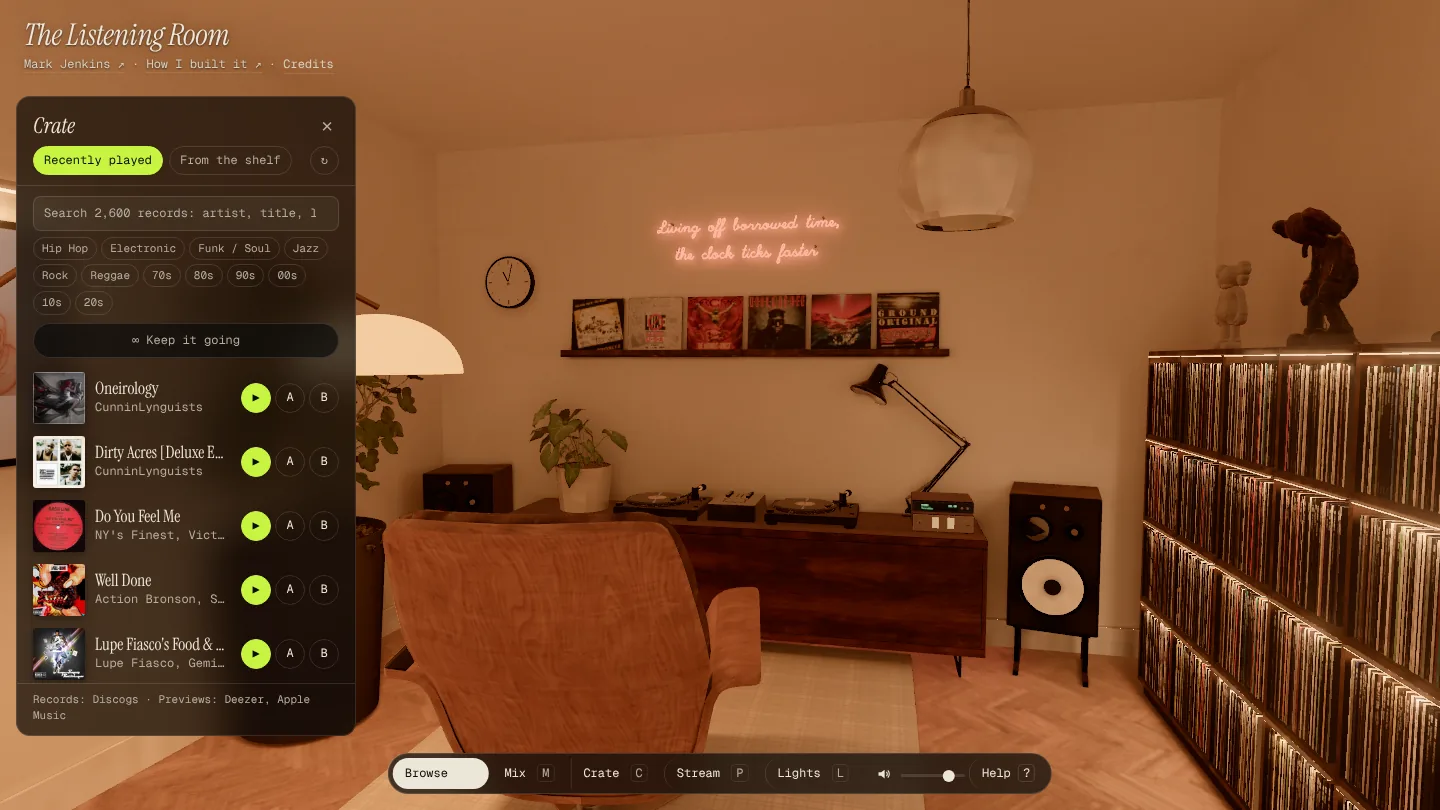
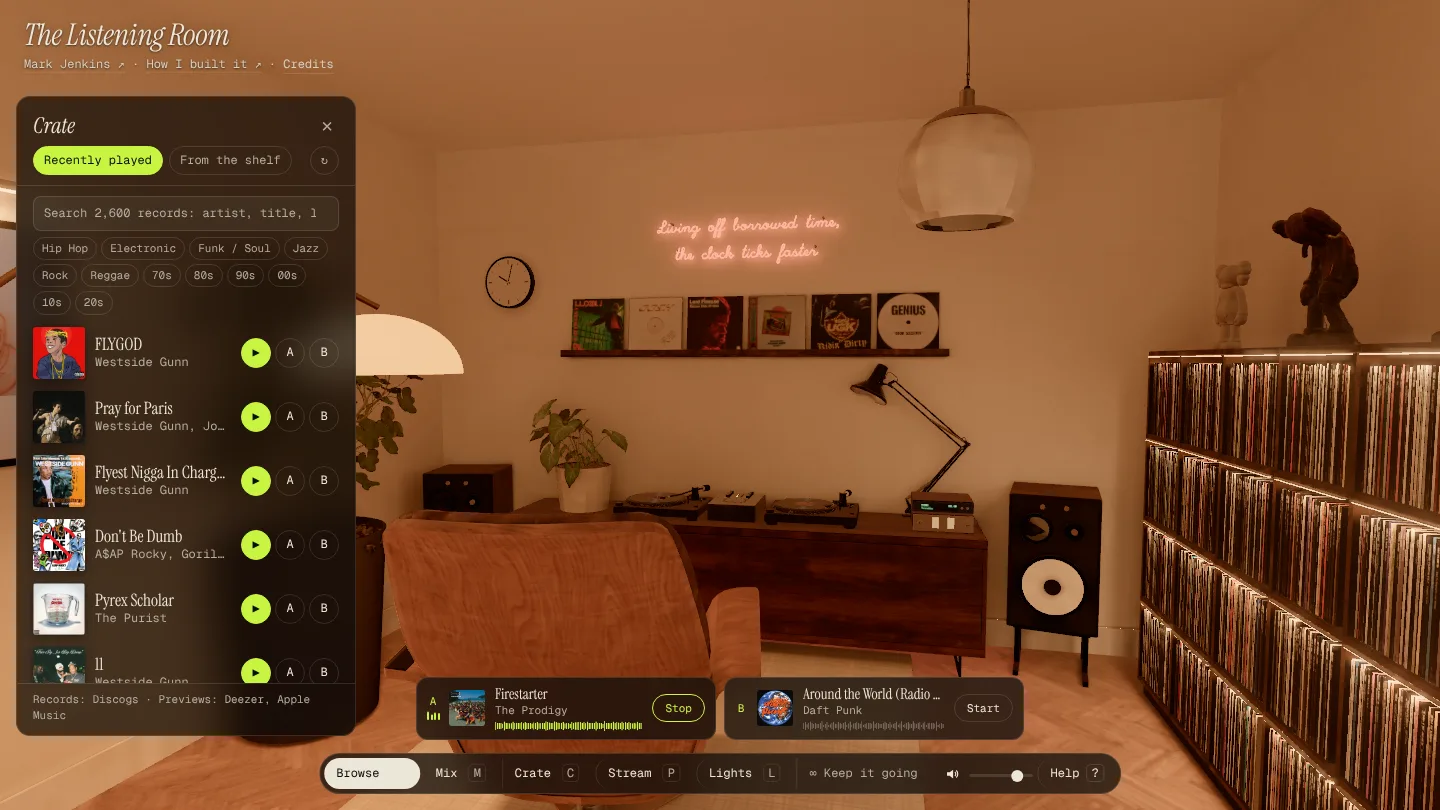
Listening Room post: one card/toast/bar system, the dog's tail, shared links
New crate and Mix screenshots (cards under each deck, Keep it going in the bar).

Claude-Session: https://claude.ai/code/session_01LommHjWzrAy5NjnEbuJJz3

diff --git a/writing/listening-room.html b/writing/listening-room.html
@@ -147,18 +147,18 @@
             <ul>
                 <li><strong>Walk around</strong> with WASD, or drag to look. You can't leave the room, but you can look out of the window at a real Amsterdam canal.</li>
                 <li><strong>Dig the crate.</strong> Pull records from my collection or my recently played, or search all 2,600 by artist, title or label, with genre and decade filters. Load them onto deck A or B and press Start.</li>
-                <li><strong>Mix.</strong> Mix mode locks the camera over the decks. Grab the record to scratch, drag the tonearm to drop the needle, ride the faders and the crossfader. The decks behave like real ones: the platter takes a moment to get up to speed, the needle lowers once it's turning, and when a preview runs out the arm swings home. On a keyboard: <kbd>A</kbd>/<kbd>D</kbd> pick a deck, <kbd>Space</kbd> starts it, the arrows nudge and pitch it, <kbd>[</kbd> <kbd>]</kbd> ride the crossfader.</li>
+                <li><strong>Mix.</strong> Mix mode locks the camera over the decks. Grab the record to scratch, drag the tonearm to drop the needle, ride the faders and the crossfader. A card floats under each deck with the record, its tempo and Start, so the mixer sits dead centre with nothing in the way. The decks behave like real ones: the platter takes a moment to get up to speed, the needle lowers once it's turning, and when a preview runs out the arm swings home. On a keyboard: <kbd>A</kbd>/<kbd>D</kbd> pick a deck, <kbd>Space</kbd> starts it, the arrows nudge and pitch it, <kbd>[</kbd> <kbd>]</kbd> ride the crossfader.</li>
                 <li><strong>Sync.</strong> Each deck card shows the preview's tempo, measured in the browser, and a waveform that fills as it plays. Sync matches one deck's tempo to the other.</li>
-                <li><strong>Keep it going.</strong> Switch it on and the room DJs for you: before each preview ends, the next record from the shelf is already spinning on the other deck and the crossfader glides across.</li>
-                <li><strong>Click any sleeve</strong> on the shelf for the tracklist and a short artist bio, and Share for a link that opens the room on that record.</li>
+                <li><strong>Keep it going.</strong> Press ∞ in the control bar and the room DJs for you: before each preview ends, the next record from the shelf is already spinning on the other deck and the crossfader glides across.</li>
+                <li><strong>Click any sleeve</strong> on the shelf for the tracklist and a short artist bio, and Share for a link that opens the room with that record face-out on the wall.</li>
                 <li><strong>Switch the lights.</strong> Seven lights (five lamps, brass picture lights over the art, and LED strips under the shelves), four scenes (Sunday morning, Golden hour, Late night, All on), dimmers that warm up as they dim like real bulbs.</li>
                 <li><strong>Stream</strong> a classic mix through SoundCloud: Coldcut's <em>70 Minutes of Madness</em>, Larry Levan at the Paradise Garage, the Dirtchamber Sessions.</li>
                 <li><strong>Type DOOM, DILLA, SUPREME or FINE</strong> (on a phone, press and hold the sign, the covers or the chair). Actually, I'll let you find out what they do.</li>
             </ul>
             <figure class="post-figure">
                 <div class="grid-3">
-                    <div class="tile"><img src="/images/writing/listening-room/ui-crate.webp" width="1440" height="810" alt="The crate panel open on the left: a search box over the whole collection, genre and decade filters, the Keep it going switch, and records with a play button and buttons to load each onto deck A or B." loading="lazy"><span class="tag">The crate</span></div>
-                    <div class="tile"><img src="/images/writing/listening-room/ui-mix.webp" width="1440" height="810" alt="Mix mode: the camera locked above the two turntables and the mixer, with the keyboard controls listed above the control bar." loading="lazy"><span class="tag">Mix mode</span></div>
+                    <div class="tile"><img src="/images/writing/listening-room/ui-crate.webp" width="1440" height="810" alt="The crate panel open on the left: a search box over the whole collection, genre and decade filters, and records with a play button and buttons to load each onto deck A or B. Two deck cards sit above the control bar." loading="lazy"><span class="tag">The crate</span></div>
+                    <div class="tile"><img src="/images/writing/listening-room/ui-mix.webp" width="1440" height="810" alt="Mix mode: the camera locked above the two turntables with the mixer in the centre, a card under each deck showing the record, its tempo, a waveform, Start and Sync." loading="lazy"><span class="tag">Mix mode</span></div>
                     <div class="tile"><img src="/images/writing/listening-room/ui-streamer.webp" width="1440" height="810" alt="The Streamer panel with a list of classic SoundCloud mixes." loading="lazy"><span class="tag">The streamer</span></div>
                 </div>
                 <figcaption>Dig the crate, mix on the decks, or put on a classic mix and leave it running.</figcaption>
@@ -331,6 +331,9 @@ vec3 mixLightmaps(vec2 uv) {
                     <tr><td>The records on the shelf looked see-through from an angle</td><td>To sharpen the spines, the build had deleted each sleeve's sides, leaving floating strips</td><td>Put the sides back with only a sliver of the lightmap, so the spines stay sharp</td></tr>
                     <tr><td>Press-and-hold on the chair went black on iPhone, then did nothing</td><td>iPhone browsers ignored the page's base address when loading the easter-egg code, so they asked for a file that doesn't exist</td><td>Build the full address in code. Then the song stayed silent: iOS only starts audio when a finger lifts, so the hold now acts on release</td></tr>
                     <tr><td>FINE stopped playing music, on every device</td><td>Deezer's preview links now expire after about 15 minutes, but the server cached them for an hour, so most of the time it handed out a dead link</td><td>Cache each link only while it lives, and fetch a fresh one if a download fails</td></tr>
+                    <tr><td>The deck cards, toasts and control bar each looked fine alone, but not together, and different on every screen</td><td>They had grown one fix at a time: a pill here, a toast there, a full-width bar</td><td>One system: the same card everywhere (slim in the room, fuller under each deck in Mix), messages always top centre, a bar that hugs its buttons and grows on big screens</td></tr>
+                    <tr><td>The dog's tail disappeared into the chair</td><td>On its original stool the tail hangs straight back, which here is into the backrest</td><td>Swept round his hip, where it can wag in the clear</td></tr>
+                    <tr><td>A shared record link opened the room but no record</td><td>The phone's share sheet glued the message onto the link, so the page couldn't read the record number</td><td>Read just the number, and put the record face-out on the wall before its sheet opens</td></tr>
                     <tr><td>Typing DOOM or DILLA fought the D key, which walked me sideways</td><td>Hotkeys and typed words fought over the same letters</td><td>Moved walking to the arrows (and later, back to WASD)</td></tr>
                 </tbody>
             </table>
@@ -353,7 +356,7 @@ vec3 mixLightmaps(vec2 uv) {
                 <li><strong>No walking.</strong> On a small screen, walking around is how you get lost. Instead you glide between five framed views (the chair, the decks, the records, the window, the art), and you can still drag to look around.</li>
                 <li><strong>Either way up.</strong> It started landscape only, with a polite "turn your phone sideways". That's exactly where people arriving from a LinkedIn link would leave, so portrait now gets the same showroom, laid out tall.</li>
                 <li><strong>One thing at a time.</strong> Every control lives in one bar along the bottom. Open the crate, the streamer or the lights and whatever was open before closes, so panels never pile up on a small screen.</li>
-                <li><strong>The good stuff stays.</strong> Lamps, record sheets and the streamer all work, and so do the decks and scratching. Mix mode just tells you it's best on a big screen, "but go on, have a go".</li>
+                <li><strong>The good stuff stays.</strong> Lamps, record sheets and the streamer all work, and so do the decks and scratching. Mix mode just tells you it's best on a big screen, "but go on, have a go". Turned sideways, the camera pulls back so a full-width card fits under each deck; upright, the cards stack just above the bar.</li>
             </ul>
             <figure class="post-figure">
                 <img src="/images/writing/listening-room/phone-views.webp" width="1600" height="490" alt="Five phone screenshots in landscape (the chair, the decks, the records, the window and the art, with the viewpoint switcher folded into one control bar along the bottom) and one in portrait, laid out tall." loading="lazy">
